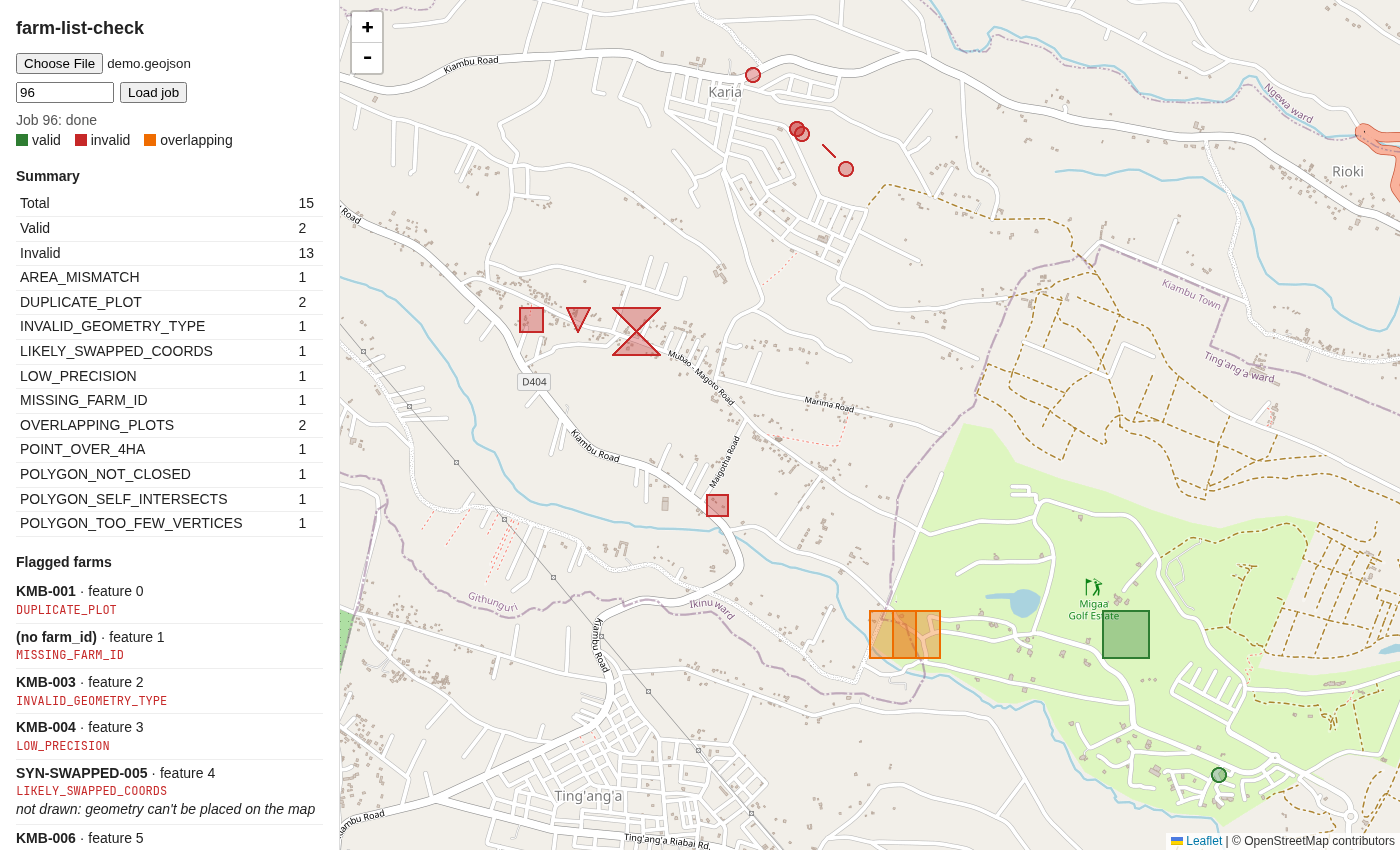
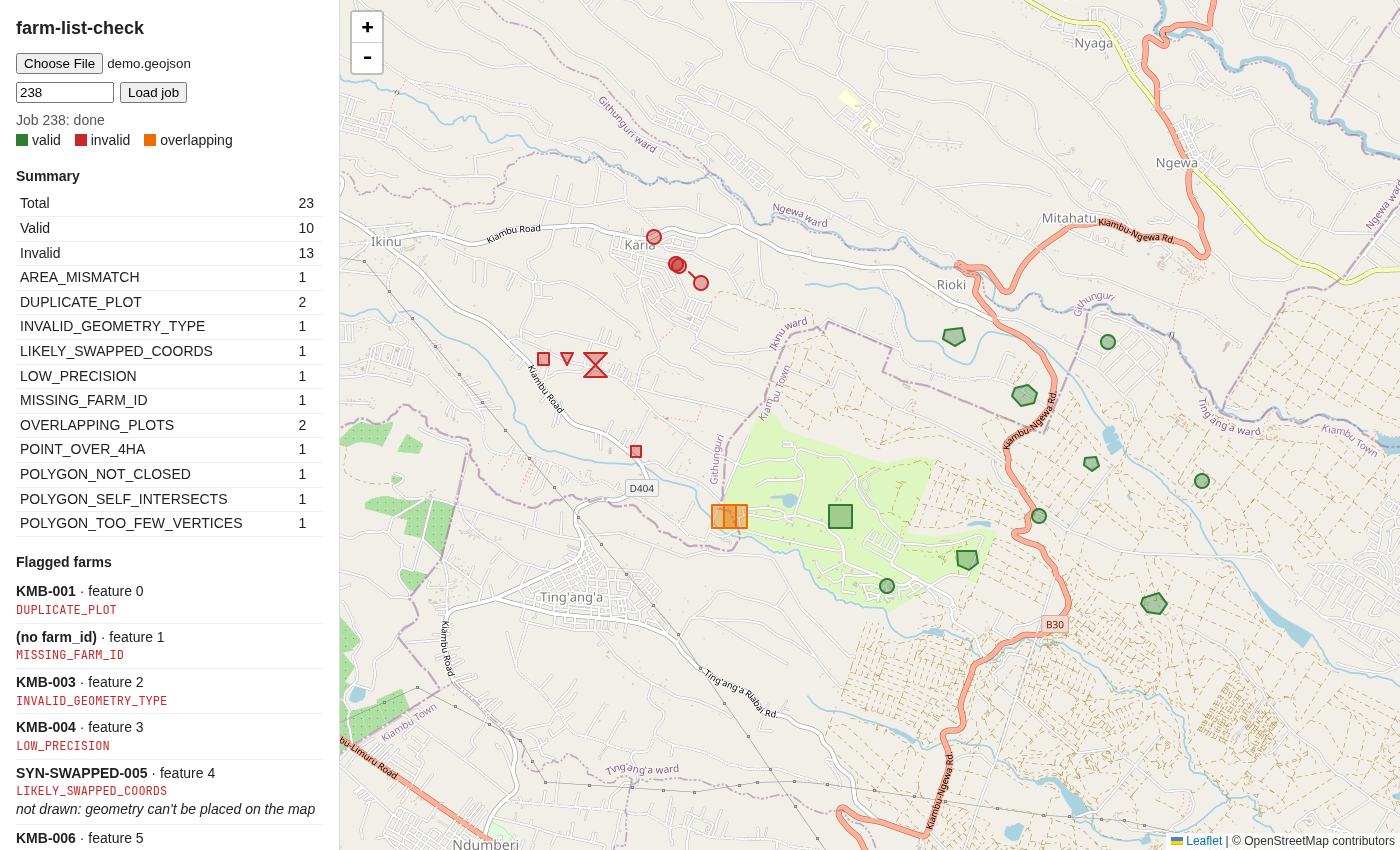
Demo: add 8 valid farms (23 total, 10 valid) and list valid farms in the sidebar

diff --git a/farm_list_check/static/index.html b/farm_list_check/static/index.html
@@ -19,9 +19,10 @@
     table { border-collapse: collapse; width: 100%; }
     td { padding: 2px 4px; border-bottom: 1px solid #eee; }
     .legend span { display: inline-block; width: 12px; height: 12px; margin-right: 4px; vertical-align: -1px; }
-    .flagged { cursor: pointer; padding: 4px 0; border-bottom: 1px solid #eee; }
-    .flagged:hover { background: #f5f5f5; }
+    .farm { cursor: pointer; padding: 4px 0; border-bottom: 1px solid #eee; }
+    .farm:hover { background: #f5f5f5; }
     .codes { font-family: monospace; font-size: 12px; color: #c62828; }
+    #valid .farm b { color: #2e7d32; }
   </style>
 </head>
 <body>
@@ -42,6 +43,8 @@
     <table id="summary"></table>
     <h2>Flagged farms</h2>
     <div id="flagged"></div>
+    <h2>Valid farms</h2>
+    <div id="valid"></div>
   </div>
   <div id="map"></div>
 
@@ -104,6 +107,7 @@
     function drawFarms(features) {
       farmsLayer.clearLayers();
       $("flagged").innerHTML = "";
+      $("valid").innerHTML = "";
       const drawn = L.featureGroup();
 
       features.forEach((feature, index) => {
@@ -117,7 +121,7 @@
           );
           layer.addTo(drawn);
         }
-        if (!valid) addFlaggedRow(index, farm_id, codes, layer);
+        addFarmRow(valid ? "valid" : "flagged", index, farm_id, codes, layer);
       });
 
       drawn.addTo(farmsLayer);
@@ -145,15 +149,16 @@
       return codes.includes("OVERLAPPING_PLOTS") ? COLORS.overlap : COLORS.invalid;
     }
 
-    function addFlaggedRow(index, farmId, codes, layer) {
+    // One clickable row in the "flagged" or "valid" list; clicking zooms to the farm.
+    function addFarmRow(listId, index, farmId, codes, layer) {
       const row = document.createElement("div");
-      row.className = "flagged";
+      row.className = "farm";
       row.innerHTML =
         `<b>${esc(farmId || "(no farm_id)")}</b> · feature ${index}` +
-        `<div class="codes">${codes.map(esc).join(", ")}</div>` +
+        (codes.length ? `<div class="codes">${codes.map(esc).join(", ")}</div>` : "") +
         (layer ? "" : "<i>not drawn: geometry can't be placed on the map</i>");
       if (layer) row.onclick = () => { map.fitBounds(layer.getBounds(), { maxZoom: 17 }); layer.openPopup(); };
-      $("flagged").appendChild(row);
+      $(listId).appendChild(row);
     }
 
     function showSummary(summary) {

diff --git a/tests/test_farm_list_check.py b/tests/test_farm_list_check.py
@@ -41,6 +41,14 @@ DEMO_EXPECTED_CODES = [
     ["OVERLAPPING_PLOTS"],
     [],
     [],
+    [],  # KMB-016 to KMB-023: valid farms
+    [],
+    [],
+    [],
+    [],
+    [],
+    [],
+    [],
 ]
 
 
@@ -72,7 +80,7 @@ def test_demo_file_produces_the_expected_reason_codes(job_ids):
 
     report = build_report(job["id"])
     assert [result["codes"] for result in report["results"]] == DEMO_EXPECTED_CODES
-    assert report["summary"]["valid"] == 2
+    assert report["summary"]["valid"] == 10
     assert report["summary"]["invalid"] == 13
 
 
@@ -244,11 +252,11 @@ def test_cli_submit_run_and_report(job_ids, tmp_path):
     assert runner.invoke(cli_app, ["run", str(job_id)]).exit_code == 0
 
     as_json = runner.invoke(cli_app, ["report", str(job_id), "--format", "json"])
-    assert json.loads(as_json.output)["summary"]["total"] == 15
+    assert json.loads(as_json.output)["summary"]["total"] == 23
 
     as_csv = runner.invoke(cli_app, ["report", str(job_id), "--format", "csv"])
     rows = list(csv.DictReader(StringIO(as_csv.output)))
-    assert len([row for row in rows if row["row_type"] == "feature"]) == 15
+    assert len([row for row in rows if row["row_type"] == "feature"]) == 23
     assert rows[-1]["row_type"] == "summary"
 
     # Errors: bad option → exit 2, missing job → exit 1, malformed file → exit 2.
@@ -269,7 +277,7 @@ def test_api_upload_to_report(job_ids):
     job_ids.append(job_id)
 
     assert client.get(f"/jobs/{job_id}").json()["status"] == "done"
-    assert client.get(f"/jobs/{job_id}/report").json()["summary"]["total"] == 15
+    assert client.get(f"/jobs/{job_id}/report").json()["summary"]["total"] == 23
     assert client.get(f"/jobs/{job_id}/report?format=csv").headers["content-type"].startswith("text/csv")
     assert client.get(f"/jobs/{job_id}/geojson").json()["features"][11]["properties"]["codes"] == ["OVERLAPPING_PLOTS"]
 

diff --git a/samples/README.md b/samples/README.md
@@ -2,7 +2,7 @@
 
 Both files use fictional farms and coordinates near Kiambu, Kenya. They are synthetic teaching data, not surveyed farm boundaries or evidence about real producers. The demo's `SYN-SWAPPED-005` point is deliberately outside Kenya: `[longitude, latitude]` is `[-1.100000, 100.000000]`, so latitude is outside ±90 while swapping the pair would make both values numerically valid. A coordinate swap near the equator can remain numerically legal and cannot be detected by this rule alone.
 
-`demo.geojson` has 15 features, indexed from zero in file order. Expected rule coverage:
+`demo.geojson` has 23 features, indexed from zero in file order: 13 each carry one planted mistake and 10 are valid, so the demo looks like a real list (mostly fine, with some problems). Expected rule coverage:
 
 | Index | Farm ID | Expected reason code(s) |
 |---:|---|---|
@@ -21,6 +21,8 @@ Both files use fictional farms and coordinates near Kiambu, Kenya. They are synt
 | 12 | KMB-013 | `OVERLAPPING_PLOTS` (overlaps feature 11) |
 | 13 | KMB-014 | none |
 | 14 | KMB-015 | none |
+| 15–19 | KMB-016 to KMB-020 | none (irregular 5–6 corner farms, 1.3–3.3 ha, declared areas match their measured areas) |
+| 20–22 | KMB-021 to KMB-023 | none (points for farms of 4 ha or less) |
 
 The three-distinct-vertex triangle at index 7 is accepted by PostGIS `ST_IsValid`; the app's requested minimum is four distinct vertices, so `POLYGON_TOO_FEW_VERTICES` is an independent rule. `ST_IsValid` checks polygon topology, and `ST_IsValidReason` supplies the readable cause when that check fails. The bowtie at index 8 reports `Self-intersection[36.815 -1.111]`.
 

diff --git a/README.md b/README.md
@@ -14,7 +14,7 @@ The EU Deforestation Regulation requires anyone placing coffee, cocoa and five o
 docker compose up --build
 ```
 
-Open http://localhost:8000 and upload `samples/demo.geojson`: 15 plots near Kiambu, Kenya, with one of every error planted on purpose.
+Open http://localhost:8000 and upload `samples/demo.geojson`: 23 plots near Kiambu, Kenya. 10 are valid and 13 each have one mistake planted on purpose, one of every error type.
 
 The same thing from the command line (Python 3.12, with the database from `docker compose up` running):
 
